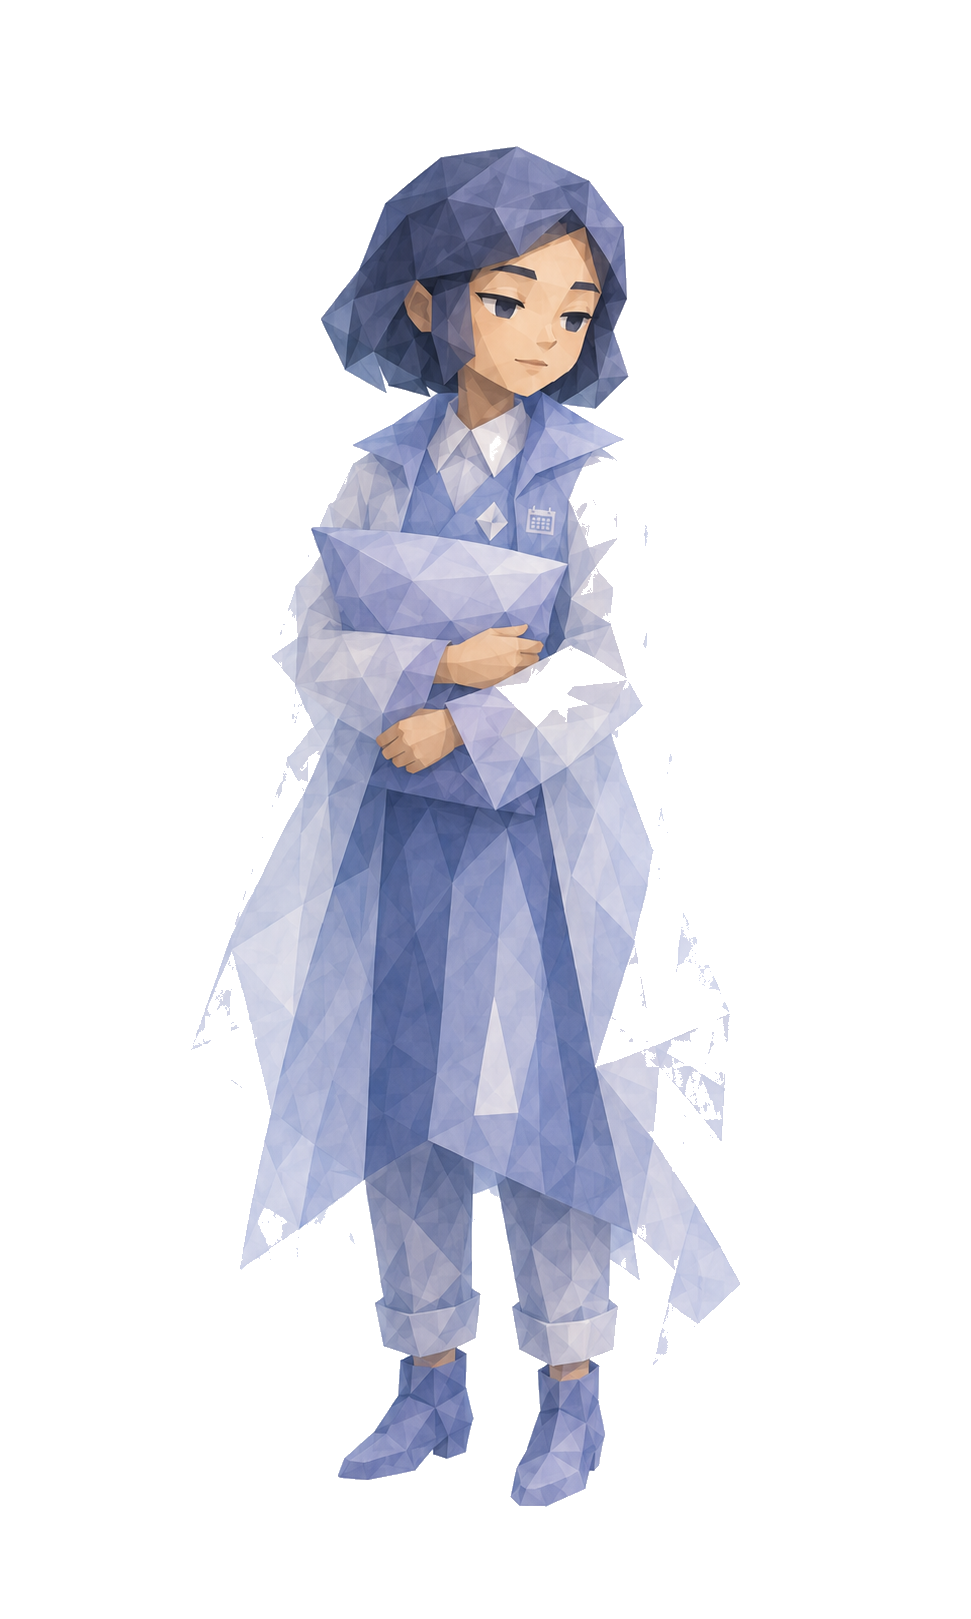
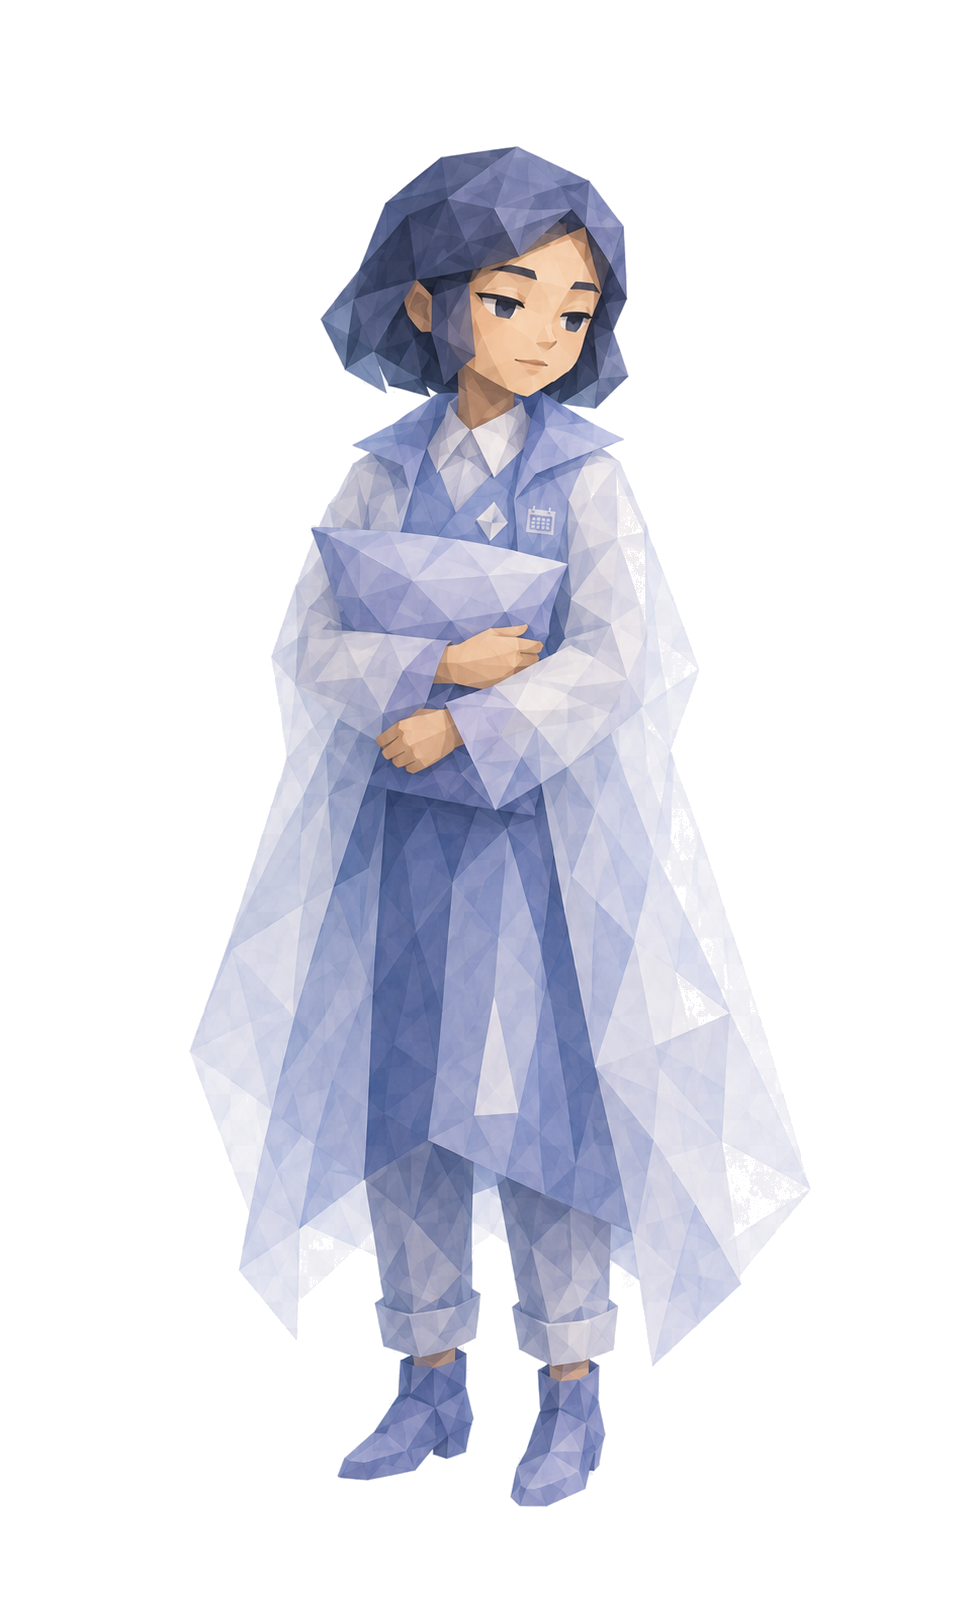
1

diff --git a/src/main.ts b/src/main.ts
@@ -446,9 +446,7 @@ function FinalResultPage({
 }) {
   const parts = getResultParts(calculatedResult);
   const personaImage = personaImages[calculatedResult.personaImageKey] || personaImages[parts.persona.id] || personaImages.STAR;
-  const badges = parts.badges.length
-    ? parts.badges
-    : [{ id: "NONE", name: "暂未触发特别勋章", englishName: "NONE", declaration: "这次没有触发额外特别勋章。", body: ["你这次没有触发额外特别勋章，结果会以主人格和行动锦囊为主。"] }];
+  const badges = parts.badges;
   const captureRef = React.useRef<HTMLElement | null>(null);
   const [isSaving, setIsSaving] = React.useState(false);
   const { toastMessage, shareResult } = useShareFeedback();
@@ -529,7 +527,7 @@ function FinalResultPage({
             h("p", { className: "result-card-closing" }, parts.actionKit.declaration)
           )
         ),
-        h("section", { className: "result-card-section result-medal-section", "aria-label": "特别勋章解读" },
+        badges.length > 0 && h("section", { className: "result-card-section result-medal-section", "aria-label": "特别勋章解读" },
           badges.map((badge) => h("article", { key: badge.id, className: "result-info-card result-medal-card" },
             h("h2", { className: "result-card-title result-card-title-medal" }, "特别勋章解读"),
             h("h3", null, `${badge.name} · ${badge.englishName}`),
@@ -633,9 +631,7 @@ function SaveImagePopup({
 }) {
   const captureRef = React.useRef<HTMLElement | null>(null);
   const personaImage = personaImages[calculatedResult.personaImageKey] || personaImages[parts.persona.id] || personaImages.STAR;
-  const badges = parts.badges.length
-    ? parts.badges
-    : [{ id: "NONE", name: "暂未触发特别勋章", declaration: "这次没有触发额外特别勋章。", body: ["你这次没有触发额外特别勋章，结果会以主人格和行动锦囊为主。"] }];
+  const badges = parts.badges;
 
   const saveImage = async () => {
     if (!captureRef.current) return;
@@ -685,7 +681,7 @@ function SaveImagePopup({
             parts.actionKit.body.map((paragraph) => h("p", { key: paragraph }, paragraph)),
             h("ul", null, parts.actionKit.tips.map((tip) => h("li", { key: tip }, tip)))
           ),
-          h("section", { className: "save-section save-section-badges" },
+          badges.length > 0 && h("section", { className: "save-section save-section-badges" },
             h("h2", null, "特别勋章解读"),
             badges.map((badge) => h("div", { key: badge.id, className: "save-badge-block" },
               h("h3", null, badge.name),
@@ -728,14 +724,10 @@ function popupContentFor(type: PopupType, parts: ResultParts, calculatedResult: 
   }
 
   if (type === "hidden") {
-    const badges = parts.badges.length
-      ? parts.badges
-      : [{ id: "NONE", name: "暂未触发特别勋章", body: ["你这次没有触发额外特别勋章，结果会以主人格和行动锦囊为主。"] }];
-
     return {
       kicker: "",
       title: "特别勋章解读",
-      body: badges.flatMap((badge) => [`${badge.name} · ${"englishName" in badge ? badge.englishName : badge.id}`, ...badge.body]),
+      body: parts.badges.flatMap((badge) => [`${badge.name} · ${badge.englishName}`, ...badge.body]),
       tips: [] as string[]
     };
   }

diff --git a/src/data/questions.ts b/src/data/questions.ts
@@ -71,10 +71,10 @@ export const formalQuestions: Question[] = [
     type: "formal",
     dimension: "P",
     options: [
-      option("A", "系统直接崩溃：蓝屏 + 重启中，会议是什么？我先找个厕所重装系统", 3, "P"),
-      option("B", "弹出“内存不足”警告：心里咯噔一下，但强行关掉弹窗继续运行", 2, "P"),
-      option("C", "收到一条“静默通知”：默默划掉，后台运行，不耽误前台工作", 1, "P"),
-      option("D", "已设置“免打扰模式”：它来它的，我开我的会，互不打扰", 0, "P")
+      option("A", "系统直接崩溃：疼痛或不适感强烈到需要马上离开，会开不下去了", 3, "P"),
+      option("B", "弹出“内存不足”警告：有明显不适或经量感，需要分出一部分注意力处理", 2, "P"),
+      option("C", "收到一条“静默通知”：有轻微感觉，但身体基本正常运转，不影响开会", 1, "P"),
+      option("D", "已设置“免打扰模式”：几乎没有不适感，不处理也能继续开会", 0, "P")
     ]
   },
   {

diff --git a/src/styles.css b/src/styles.css
@@ -1399,13 +1399,18 @@ button {
   z-index: 1;
   width: min(100%, 520px);
   margin: 0 auto;
-  padding: clamp(46px, 9vw, 62px) 28px max(36px, env(safe-area-inset-bottom));
+  padding: clamp(22px, 5.6vw, 32px) 28px max(36px, env(safe-area-inset-bottom));
   text-align: center;
+}
+
+.special-content-flow .result-flower-divider {
+  margin-top: 0;
+  margin-bottom: clamp(22px, 5.6vw, 32px);
 }
 
 .special-result-profile {
   max-width: min(430px, calc(100vw - 32px));
-  margin: clamp(48px, 10vw, 66px) auto 0;
+  margin: 0 auto;
   text-align: center;
   font-family: "ChillDIN", "Source Han Sans SC", "Noto Sans CJK SC", "PingFang SC", system-ui, sans-serif;
   font-size: 28px;
